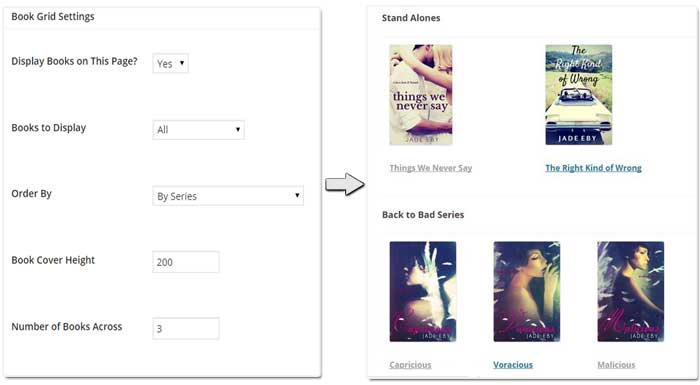
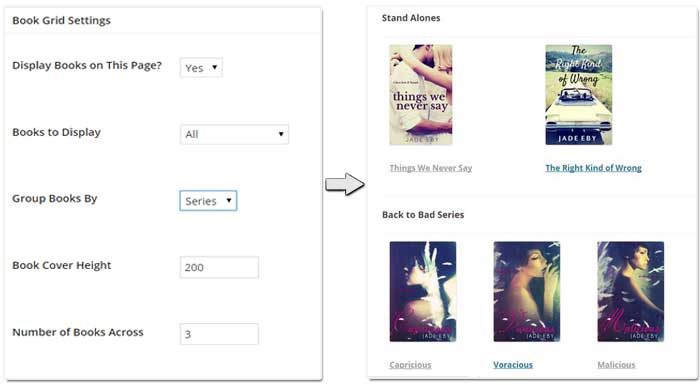
update to v0.2

diff --git a/mooberry-book-manager.php b/mooberry-book-manager.php
@@ -4,7 +4,7 @@
     Plugin URI:
     Description: An easy-to-use system for authors to add books their Wordpress website
     Author: Mooberry Dreams
-    Version: 0.1.2
+    Version: 0.2
     Author URI: http://www.mooberrydreams.com/
 	
 	Copyright 2015  Mooberry Dreams  (email : bookmanager@mooberrydreams.com)
@@ -25,7 +25,7 @@
 
 	define('MBDB_PLUGIN_DIR', plugin_dir_path( __FILE__ )); 
 	define('MBDB_PLUGIN_VERSION_KEY', 'mbdb_version');
-	
+	update_option(MBDB_PLUGIN_VERSION_KEY, '0.2');
 
 	
 	// Load in CMB2
@@ -52,12 +52,7 @@
 	require_once dirname( __FILE__ ) . '/book-grid.php';
 	require_once ABSPATH . 'wp-admin/includes/image.php';
 
-	// if upgrading from v0.1.1, update the default layout
-	if (get_option(MBDB_PLUGIN_VERSION_KEY) == '0.1.1') {
-			$content = mbdb_get_default_page_layout();
-			update_option('mbdb_book_page_options', array('_mbdb_book_page_layout' => $content));
-			update_option(MBDB_PLUGIN_VERSION_KEY, '0.1.2');
-	}
+
 	
 	
 	

diff --git a/README.md b/README.md
@@ -3,7 +3,7 @@
 **Tags:** book, author, publisher, writer  
 **Requires at least:** 3.8.0  
 **Tested up to:** 4.1.1  
-**Stable tag:** 0.1  
+**Stable tag:** 0.2
 **License:** GPLv2 or later  
 **License URI:** http://www.gnu.org/licenses/gpl-2.0.html  
 
@@ -28,6 +28,11 @@ Mooberry Book Manager works with your chosen theme to provide a consistent look 
 Requires Wordpress 3.8. The admin screens (for creating books, etc.) require Javascript, but the public pages do not.
 
 ## Changelog
+
+#### 0.2 
+
+* Book Grid interface updated to accomodate Mutli-Author add-on
+* NOT backwards-compatible. All pages/posts with a Book Grid will need to be updated.
 
 #### 0.1.2
 
